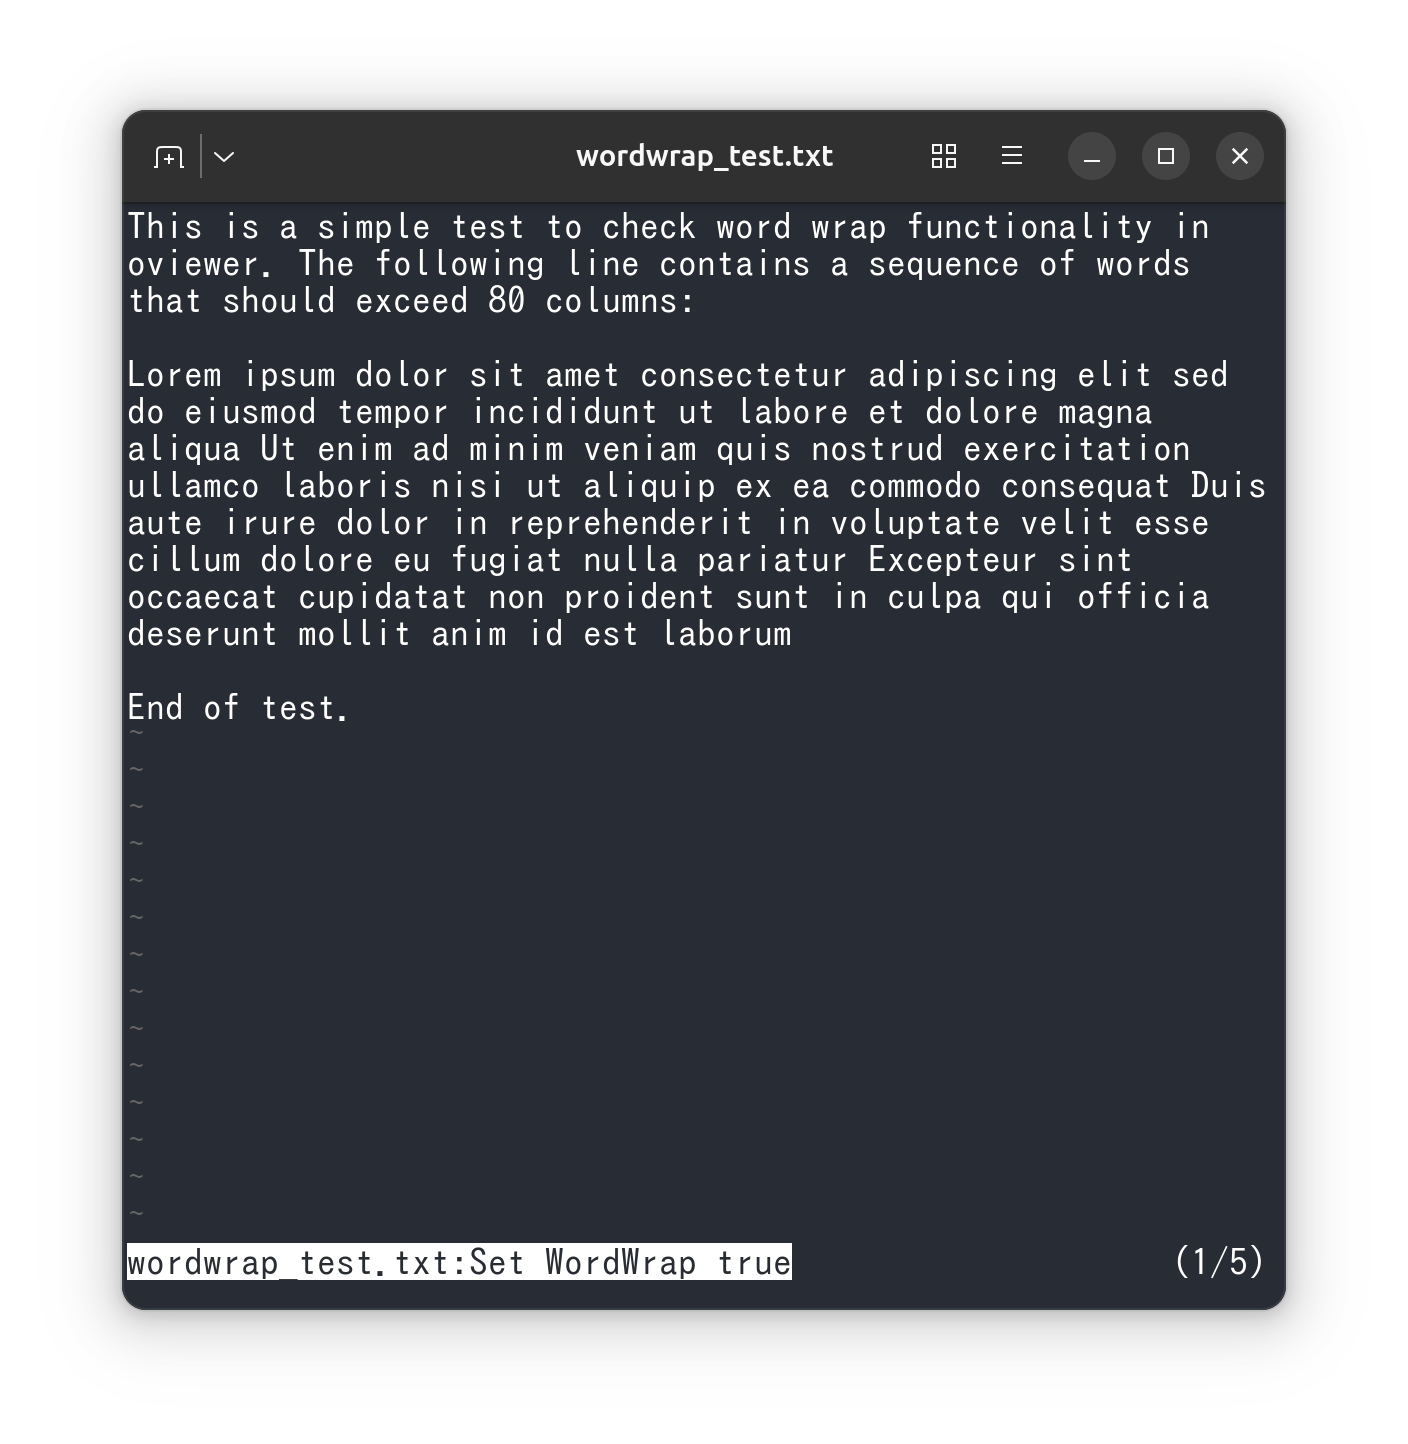
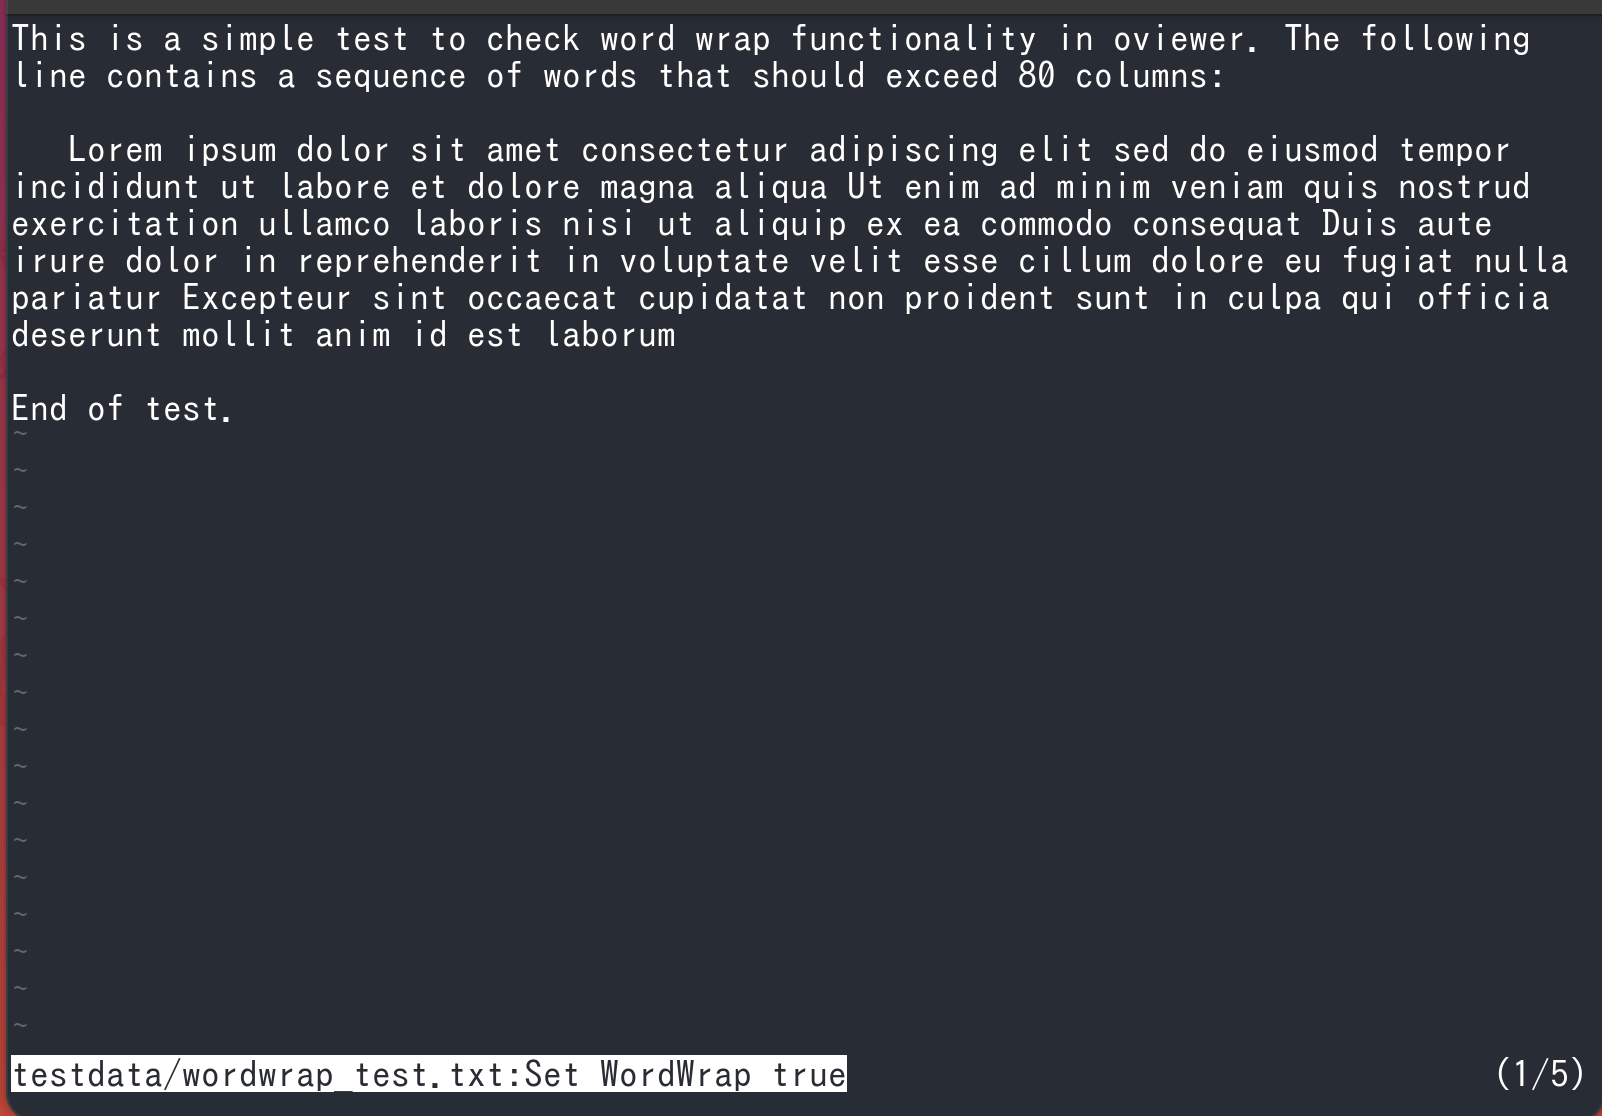
word wrap更新

diff --git a/content/ov/word-wrap.en.md b/content/ov/word-wrap.en.md
@@ -1,22 +1,23 @@
 ---
 author: "Noboru Saito"
 title: "Word wrap"
-description: "Switch between character wrap and word wrap in ov."
+description: "Switch between character-based wrapping and word wrapping in ov."
 date: 2026-07-21T09:00:00+09:00
-tags: ["ov", "wrap"]
+lastmod: 2026-10-12T15:00:00+09:00
+tags: ["ov", "wrap", "word-wrap"]
 images: ["/ov/ov-wordwrap2.png"]
 categories: ["ov"]
 weight: 93
 ---
 
-`ov` supports switching line wrapping modes.
+`ov` lets you switch between line wrapping modes.
 By default, wrapping is character-based (`-w` / `-w=char`), which may split words at the edge of the screen.
-
-![character wrap](/ov/ov-wordwrap1.png)
 
 ## Wrap modes
 
-* `-w` or `-w=char`: Wrap at screen width (character-based).
+![Character-based wrapping](/ov/ov-nowordwrap.png)
+
+* `-w` or `-w=char`: Wrap at the screen width (character-based).
 * `-w=word`: Wrap at word boundaries.
 * `-w=none`: Disable wrapping.
 
@@ -24,9 +25,69 @@ By default, wrapping is character-based (`-w` / `-w=char`), which may split word
 ov -w=word README.md
 ```
 
-With word wrap enabled, long text is wrapped without breaking words in the middle.
+## Word wrap
+
+With word wrap enabled, long text is less likely to be split in the middle of a word.
 
 ![word wrap](/ov/ov-wordwrap2.png)
 
-You can toggle word wrap after launch with the default key `Alt+w`.
-Character wrap can be toggled with the default keys `w` / `W`.
+After launch, you can toggle word wrap with the default key `Alt+w`.
+
+## Indentation with word wrap
+
+Since v0.55.0, you can set the indentation of wrapped lines in `-w=word` mode with `--break-indent`.
+You can also configure it after launch with the default key `Ctrl+Alt+n`.
+
+### Indentation options for word wrap
+
+#### `0`: No indentation (default)
+
+![No indentation](/ov/ov-wordwrap1.png)
+
+#### Positive number: Indent by the specified width
+
+Set to 2:
+
+![Positive indentation](/ov/indent2.png)
+
+#### `L`: Align with the leading whitespace of the original line
+
+Set to `L` (`L+0`):
+
+![Align with the leading whitespace of the original line](/ov/indent+0.png)
+
+#### `L+N` / `L-N`: Increase or decrease the width relative to the leading whitespace of the original line
+
+Set to `L+2`. The leading `L` is optional, so `L+2` means the same as `+2`.
+
+![Adjust indentation relative to the leading whitespace of the original line](/ov/indent+2.png)
+
+```console
+ov -w=word --break-indent=L+2 README.md
+```
+
+## Display markers
+
+Since v0.55.0, you can show markers for wrap positions, line continuations, and truncation at the screen width.
+Configure them with `--sign-mode`, or toggle them after launch with the default key `Ctrl+Alt+m`.
+The default value `0` hides all markers. Specify a value by adding the bit values for each marker.
+
+![Display markers 1](/ov/ov-marker1.png)
+
+![Display markers 2](/ov/ov-marker2.png)
+
+| Value | Markers shown | Conditions |
+| --- | --- | --- |
+| `1` | `↳` | At the beginning of a wrapped line |
+| `2` | `↵` | At the end of a line before it wraps |
+| `4` | `…` | At the end of a line that exceeds the screen width when wrapping is disabled |
+| `3` | `↳` and `↵` | Combines `1` and `2` |
+| `5` | `↳` and `…` | Combines `1` and `4` |
+| `6` | `↵` and `…` | Combines `2` and `4` |
+| `7` | All | Combines `1`, `2`, and `4` |
+
+`↳` and `↵` are shown when wrapping is enabled. `…` is shown when wrapping is disabled and a line exceeds the screen width.
+
+```console
+ov -w=word --sign-mode=3 README.md
+```

diff --git a/content/ov/word-wrap.ja.md b/content/ov/word-wrap.ja.md
@@ -3,8 +3,8 @@ author: "Noboru Saito"
 title: "word wrap"
 description: "ovで文字単位折り返しと単語単位折り返しを切り替える"
 date: 2026-07-21T09:00:00+09:00
-tags: ["ov", "wrap"]
-images: ["/ov/ov-wordwrap2.png"]
+lastmod: 2026-10-12T15:00:00+09:00
+tags: ["ov", "wrap", "word-wrap"]
 categories: ["ov"]
 weight: 93
 ---
@@ -12,9 +12,9 @@ weight: 93
 `ov`は行の折り返しモードを切り替えられます。
 デフォルトは文字単位の折り返し（`-w` / `-w=char`）で、画面端で単語の途中が分割される場合があります。
 
-![文字単位の折り返し](/ov/ov-wordwrap1.png)
-
 ## 折り返しモード
+
+![文字単位の折り返し](/ov/ov-nowordwrap.png)
 
 * `-w` または `-w=char`: 画面幅で折り返す（文字単位）。
 * `-w=word`: 単語境界で折り返す。
@@ -24,9 +24,69 @@ weight: 93
 ov -w=word README.md
 ```
 
-word wrapを有効にすると、長文でも単語の途中で分割されにくくなります。
+## ワードラップ
+
+ワードラップを有効にすると、長文でも単語の途中で分割されにくくなります。
 
 ![word wrap](/ov/ov-wordwrap2.png)
 
-起動後はデフォルトキー`Alt+w`でword wrapを切り替えできます。
-文字単位の折り返しはデフォルトキー`w` / `W`で切り替えできます。
+起動後はデフォルトキー`Alt+w`でワードラップを切り替えできます。
+
+## ワードラップ時のインデント
+
+v0.55.0から、`-w=word`モードで折り返された行のインデントを`--break-indent`で指定できます。
+起動後はデフォルトキー`Ctrl+Alt+n`でも設定できます。
+
+### ワードラップ時のインデントの種類
+
+#### `0`: インデントなし（デフォルト）
+
+![インデントなし](/ov/ov-wordwrap1.png)
+
+#### 正の数: 指定した幅でインデント
+
+2を指定
+
+![正の数](/ov/indent2.png)
+
+#### `L`: 元の行の先頭の空白に合わせる
+
+L(L+0)を指定
+
+![元の行の先頭の空白に合わせる](/ov/indent+0.png)
+
+#### `L+N` / `L-N`: 元の行の先頭の空白を基準に幅を増減する
+
+L+2を指定。先頭のLは省略可能です。L+2は+2と同じ意味です。
+
+![元の行の先頭の空白を基準に幅を増減する](/ov/indent+2.png)
+
+```console
+ov -w=word --break-indent=L+2 README.md
+```
+
+## display markers
+
+v0.55.0から、折り返し位置や行の続き、画面幅による切り詰めを示すマーカーを表示できます。
+`--sign-mode`で設定し、起動後はデフォルトキー`Ctrl+Alt+m`で切り替えられます。
+デフォルトの`0`ではマーカーを表示しません。値はマーカーごとのビット値を加算して指定します。
+
+![display markers1](/ov/ov-marker1.png)
+
+![display markers2](/ov/ov-marker2.png)
+
+| 値 | 表示するマーカー | 表示条件 |
+| --- | --- | --- |
+| `1` | `↳` | 折り返された行の先頭 |
+| `2` | `↵` | 折り返し前の行末 |
+| `4` | `…` | 折り返しなしで画面幅を超えた行末 |
+| `3` | `↳`と`↵` | `1`と`2`を併用 |
+| `5` | `↳`と`…` | `1`と`4`を併用 |
+| `6` | `↵`と`…` | `2`と`4`を併用 |
+| `7` | すべて | `1`、`2`、`4`を併用 |
+
+`↳`と`↵`は折り返しが有効なとき、`…`は折り返しが無効で行が画面幅を超えたときに表示されます。
+
+```console
+ov -w=word --sign-mode=3 README.md
+```
